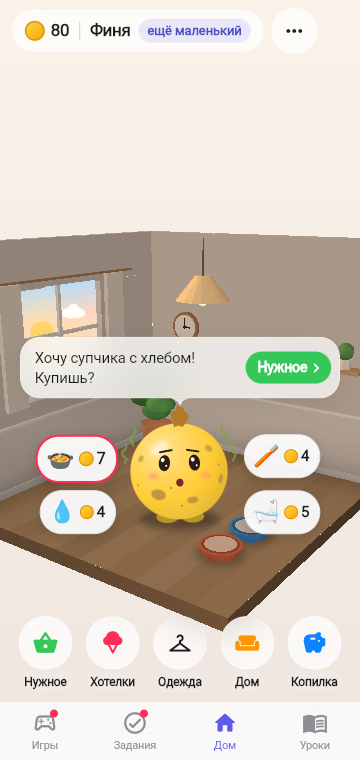
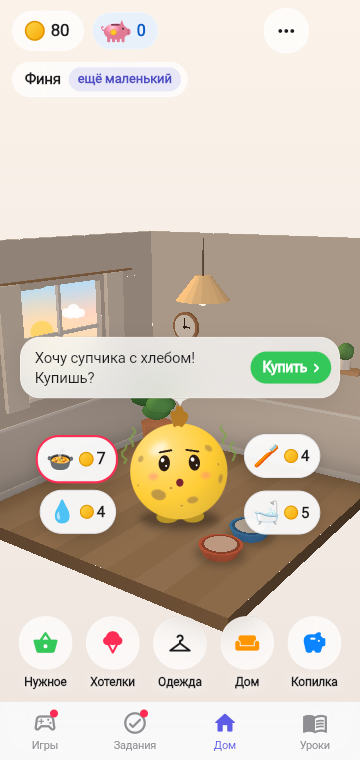
F-040: piggy bank on Home next to the wallet — saved amount, goal progress, tap to open Savings; name and stage on the second row

diff --git a/client/lib/ui/tabs/home_tab.dart b/client/lib/ui/tabs/home_tab.dart
@@ -22,6 +22,7 @@ import '../widgets/buy_sheet.dart';
 import '../widgets/duo.dart';
 import '../widgets/need_bubble.dart';
 import '../widgets/pet_speech.dart';
+import '../widgets/piggy.dart';
 
 /// Дом (Figma 02): комната на весь экран, герой, плавающие элементы (SA F-017 BR-03).
 class HomeTab extends StatefulWidget {
@@ -130,7 +131,13 @@ class _HomeTabState extends State<HomeTab> {
                 child: Column(
                   children: [
                     _topBar(name),
-                    if (game.inventory.rooms > 1) ...[const SizedBox(height: 8), _roomToggle()],
+                    const SizedBox(height: 8),
+                    Row(
+                      children: [
+                        Flexible(child: _nameRow(name)),
+                        if (game.inventory.rooms > 1) ...[const Spacer(), _roomToggle()],
+                      ],
+                    ),
                   ],
                 ),
               ),
@@ -162,35 +169,77 @@ class _HomeTabState extends State<HomeTab> {
   }
 
   Widget _topBar(String name) {
+    final goal = game.goal;
+    final saved = game.economy.savings.value;
     return Row(
       children: [
-        Flexible(
-          child: Glass(
-            radius: 24,
-            padding: const EdgeInsets.fromLTRB(12, 8, 12, 8),
-            child: Row(
-              mainAxisSize: MainAxisSize.min,
-              children: [
-                const CoinIcon(size: 20),
-                const SizedBox(width: 6),
-                Text(
-                  '${game.economy.available.value}',
-                  style: const TextStyle(fontSize: 17, fontWeight: FontWeight.w700, letterSpacing: -0.3),
-                ),
-                Container(width: 0.8, height: 18, margin: const EdgeInsets.symmetric(horizontal: 10), color: const Color(0x33000000)),
-                Flexible(
-                  child: Text(name, overflow: TextOverflow.ellipsis, style: const TextStyle(fontSize: 17, fontWeight: FontWeight.w600, letterSpacing: -0.4)),
-                ),
-                const SizedBox(width: 8),
-                Flexible(
-                  flex: 2,
-                  child: FittedBox(fit: BoxFit.scaleDown, child: DuoChip(text: game.stageTitle, color: FinniColors.primary)),
-                ),
-              ],
-            ),
+        // Кошелёк.
+        Glass(
+          radius: 24,
+          padding: const EdgeInsets.fromLTRB(12, 8, 14, 8),
+          child: Row(
+            mainAxisSize: MainAxisSize.min,
+            children: [
+              const CoinIcon(size: 20),
+              const SizedBox(width: 6),
+              Text('${game.economy.available.value}', style: const TextStyle(fontSize: 17, fontWeight: FontWeight.w700, letterSpacing: -0.3)),
+            ],
           ),
         ),
         const SizedBox(width: 8),
+        // Копилка на виду: сколько отложено и сколько до цели (SA F-040).
+        Flexible(
+          child: Semantics(
+            button: true,
+            label: goal == null ? 'Копилка: $saved' : 'Копилка: $saved из ${goal.cost}',
+            child: Pressable(
+              key: const Key('home.piggy'),
+              onTap: () => _open(SavingsScreen(game: game)),
+              child: Glass(
+                radius: 24,
+                tint: const Color(0xCCE3F0FF),
+                padding: const EdgeInsets.fromLTRB(8, 5, 12, 5),
+                child: Row(
+                  mainAxisSize: MainAxisSize.min,
+                  children: [
+                    const SizedBox(width: 30, height: 26, child: CustomPaint(painter: PiggyBankPainter())),
+                    const SizedBox(width: 6),
+                    Flexible(
+                      child: Column(
+                        mainAxisSize: MainAxisSize.min,
+                        crossAxisAlignment: CrossAxisAlignment.start,
+                        children: [
+                          FittedBox(
+                            fit: BoxFit.scaleDown,
+                            child: Text(
+                              goal == null ? '$saved' : '$saved / ${goal.cost}',
+                              key: const Key('home.piggy.amount'),
+                              style: const TextStyle(fontSize: 16, fontWeight: FontWeight.w700, letterSpacing: -0.3, color: Color(0xFF0A5BC4)),
+                            ),
+                          ),
+                          if (goal != null)
+                            SizedBox(
+                              width: 56,
+                              height: 4,
+                              child: ClipRRect(
+                                borderRadius: BorderRadius.circular(2),
+                                child: LinearProgressIndicator(
+                                  value: (saved / goal.cost).clamp(0.0, 1.0),
+                                  backgroundColor: const Color(0x330A84FF),
+                                  color: FinniColors.save,
+                                ),
+                              ),
+                            ),
+                        ],
+                      ),
+                    ),
+                  ],
+                ),
+              ),
+            ),
+          ),
+        ),
+        const Spacer(),
         Semantics(
           button: true,
           label: 'Меню',
@@ -203,6 +252,22 @@ class _HomeTabState extends State<HomeTab> {
       ],
     );
   }
+
+  /// Имя героя и стадия — второй строкой.
+  Widget _nameRow(String name) => Glass(
+    radius: 18,
+    padding: const EdgeInsets.fromLTRB(12, 5, 6, 5),
+    child: Row(
+      mainAxisSize: MainAxisSize.min,
+      children: [
+        Flexible(
+          child: Text(name, overflow: TextOverflow.ellipsis, style: const TextStyle(fontSize: 15, fontWeight: FontWeight.w600, letterSpacing: -0.3)),
+        ),
+        const SizedBox(width: 8),
+        FittedBox(fit: BoxFit.scaleDown, child: DuoChip(text: game.stageTitle, color: FinniColors.primary)),
+      ],
+    ),
+  );
 
   Widget _roomToggle() => Glass(
     radius: 18,

diff --git a/client/lib/ui/games/catcher_game.dart b/client/lib/ui/games/catcher_game.dart
@@ -6,6 +6,7 @@ import '../../game/minigames.dart';
 import '../theme.dart';
 import '../widgets/common.dart';
 import '../widgets/duo.dart';
+import '../widgets/piggy.dart';
 import 'games_hub.dart';
 
 /// «Копилка-ловец» (SA F-013).
@@ -225,71 +226,4 @@ String _caughtSummary(CatcherModel m) {
     names[f.emoji] = f.title;
   }
   return [for (final e in counts.entries) '${e.key} ${names[e.key]}${e.value > 1 ? ' ×${e.value}' : ''}'].join(', ');
-}
-
-/// Копилка-свинка с прорезью для монет (F-033) — вместо эмодзи.
-class PiggyBankPainter extends CustomPainter {
-  const PiggyBankPainter();
-
-  @override
-  void paint(Canvas canvas, Size size) {
-    final w = size.width, h = size.height;
-    const pink = Color(0xFFFF9EB5), dark = Color(0xFFE07A95);
-    final body = Rect.fromLTWH(w * 0.1, h * 0.22, w * 0.8, h * 0.62);
-    // ножки
-    for (final x in [0.26, 0.42, 0.58, 0.74]) {
-      canvas.drawRRect(RRect.fromRectAndRadius(Rect.fromLTWH(w * x - w * 0.05, h * 0.72, w * 0.1, h * 0.22), Radius.circular(w * 0.04)), Paint()..color = dark);
-    }
-    // хвостик
-    canvas.drawPath(
-      Path()
-        ..moveTo(w * 0.1, h * 0.5)
-        ..cubicTo(w * -0.02, h * 0.42, w * 0.02, h * 0.3, w * 0.08, h * 0.36),
-      Paint()
-        ..color = dark
-        ..style = PaintingStyle.stroke
-        ..strokeWidth = w * 0.035
-        ..strokeCap = StrokeCap.round,
-    );
-    // туловище
-    canvas.drawOval(
-      body,
-      Paint()..shader = const RadialGradient(center: Alignment(-0.3, -0.5), colors: [Color(0xFFFFD1DC), pink, dark]).createShader(body),
-    );
-    // ушко
-    canvas.drawPath(
-      Path()
-        ..moveTo(w * 0.62, h * 0.3)
-        ..lineTo(w * 0.7, h * 0.08)
-        ..lineTo(w * 0.78, h * 0.34)
-        ..close(),
-      Paint()..color = dark,
-    );
-    // пятачок
-    final snout = Rect.fromCenter(center: Offset(w * 0.9, h * 0.54), width: w * 0.18, height: h * 0.26);
-    canvas.drawOval(snout, Paint()..color = dark);
-    for (final dy in [-0.05, 0.05]) {
-      canvas.drawCircle(Offset(w * 0.91, h * (0.54 + dy)), w * 0.02, Paint()..color = const Color(0xFF9E4A62));
-    }
-    // глазик
-    canvas.drawCircle(Offset(w * 0.74, h * 0.42), w * 0.03, Paint()..color = const Color(0xFF3B2A30));
-    // прорезь для монет
-    canvas.drawRRect(
-      RRect.fromRectAndRadius(Rect.fromCenter(center: Offset(w * 0.48, h * 0.27), width: w * 0.28, height: h * 0.06), Radius.circular(h * 0.03)),
-      Paint()..color = const Color(0xFF7A3A50),
-    );
-    // монетка-значок
-    canvas.drawCircle(Offset(w * 0.42, h * 0.56), w * 0.09, Paint()..color = const Color(0xFFFFC928));
-    canvas.drawCircle(
-      Offset(w * 0.42, h * 0.56),
-      w * 0.09,
-      Paint()
-        ..color = const Color(0xFFE0A800)
-        ..style = PaintingStyle.stroke
-        ..strokeWidth = w * 0.015,
-    );
-  }
-
-  @override
-  bool shouldRepaint(PiggyBankPainter old) => false;
 }

diff --git a/client/lib/ui/widgets/piggy.dart b/client/lib/ui/widgets/piggy.dart
@@ -1,0 +1,68 @@
+import 'package:flutter/material.dart';
+
+/// Копилка-свинка с прорезью для монет (F-033) — вместо эмодзи.
+class PiggyBankPainter extends CustomPainter {
+  const PiggyBankPainter();
+
+  @override
+  void paint(Canvas canvas, Size size) {
+    final w = size.width, h = size.height;
+    const pink = Color(0xFFFF9EB5), dark = Color(0xFFE07A95);
+    final body = Rect.fromLTWH(w * 0.1, h * 0.22, w * 0.8, h * 0.62);
+    // ножки
+    for (final x in [0.26, 0.42, 0.58, 0.74]) {
+      canvas.drawRRect(RRect.fromRectAndRadius(Rect.fromLTWH(w * x - w * 0.05, h * 0.72, w * 0.1, h * 0.22), Radius.circular(w * 0.04)), Paint()..color = dark);
+    }
+    // хвостик
+    canvas.drawPath(
+      Path()
+        ..moveTo(w * 0.1, h * 0.5)
+        ..cubicTo(w * -0.02, h * 0.42, w * 0.02, h * 0.3, w * 0.08, h * 0.36),
+      Paint()
+        ..color = dark
+        ..style = PaintingStyle.stroke
+        ..strokeWidth = w * 0.035
+        ..strokeCap = StrokeCap.round,
+    );
+    // туловище
+    canvas.drawOval(
+      body,
+      Paint()..shader = const RadialGradient(center: Alignment(-0.3, -0.5), colors: [Color(0xFFFFD1DC), pink, dark]).createShader(body),
+    );
+    // ушко
+    canvas.drawPath(
+      Path()
+        ..moveTo(w * 0.62, h * 0.3)
+        ..lineTo(w * 0.7, h * 0.08)
+        ..lineTo(w * 0.78, h * 0.34)
+        ..close(),
+      Paint()..color = dark,
+    );
+    // пятачок
+    final snout = Rect.fromCenter(center: Offset(w * 0.9, h * 0.54), width: w * 0.18, height: h * 0.26);
+    canvas.drawOval(snout, Paint()..color = dark);
+    for (final dy in [-0.05, 0.05]) {
+      canvas.drawCircle(Offset(w * 0.91, h * (0.54 + dy)), w * 0.02, Paint()..color = const Color(0xFF9E4A62));
+    }
+    // глазик
+    canvas.drawCircle(Offset(w * 0.74, h * 0.42), w * 0.03, Paint()..color = const Color(0xFF3B2A30));
+    // прорезь для монет
+    canvas.drawRRect(
+      RRect.fromRectAndRadius(Rect.fromCenter(center: Offset(w * 0.48, h * 0.27), width: w * 0.28, height: h * 0.06), Radius.circular(h * 0.03)),
+      Paint()..color = const Color(0xFF7A3A50),
+    );
+    // монетка-значок
+    canvas.drawCircle(Offset(w * 0.42, h * 0.56), w * 0.09, Paint()..color = const Color(0xFFFFC928));
+    canvas.drawCircle(
+      Offset(w * 0.42, h * 0.56),
+      w * 0.09,
+      Paint()
+        ..color = const Color(0xFFE0A800)
+        ..style = PaintingStyle.stroke
+        ..strokeWidth = w * 0.015,
+    );
+  }
+
+  @override
+  bool shouldRepaint(PiggyBankPainter old) => false;
+}

diff --git a/client/test/ui/app_flow_test.dart b/client/test/ui/app_flow_test.dart
@@ -152,6 +152,13 @@ void main() {
     await t.pageBack();
     await settle(t, 30);
 
+    // F-040: копилка на виду рядом с кошельком — сколько отложено и путь в неё.
+    expect(find.text('5 / 50'), findsOneWidget);
+    await tapKey(t, 'home.piggy');
+    expect(find.textContaining('осталось 45'), findsWidgets);
+    await t.pageBack();
+    await settle(t, 30);
+
     // Одежда: очки надеты после покупки, тап — снять.
     await tapKey(t, 'home.clothes');
     expect(find.text('надето'), findsOneWidget);

diff --git a/docs/work/ui/F-040_PIGGY_ON_HOME_SA_SPEC.md b/docs/work/ui/F-040_PIGGY_ON_HOME_SA_SPEC.md
@@ -1,0 +1,33 @@
+# Копилка на виду: плашка на Доме рядом с кошельком — системная спецификация (SA)
+
+| Поле | Значение |
+|------|----------|
+| **ID** | F-040 |
+| **Назначение** | Сколько отложено — видно сразу на Доме рядом с кошельком; тап — в Копилку |
+| **Репозиторий** | `Pet_Finni_hackathon` |
+| **Источник** | Запрос Егора 2026-09-24: «выделить копилку, чтобы быстро в неё попасть и посмотреть, сколько отложено; на главном рядом с монетками писать, сколько в копилке, и возможность перейти» |
+| **Статус** | Согласовано Егором 2026-09-24 |
+| **Связанные артефакты** | F-014 (копилка), F-022 (разделы), F-033 (нарисованная копилка) |
+
+---
+
+## 3. Бизнес-требования
+
+| ID | Требование | Приоритет |
+|----|------------|-----------|
+| BR-01 | Верхняя строка Дома: плашка кошелька (монета + сумма) и рядом плашка копилки (нарисованная свинка + отложено) | Must |
+| BR-02 | Если выбрана цель — «30 / 50» и тонкая полоска прогресса к цели | Must |
+| BR-03 | Тап по плашке копилки — экран Копилки | Must |
+| BR-04 | Имя героя и стадия — второй строкой (чтобы всё поместилось на 360 dp) | Must |
+| BR-05 | Кошелёк и копилка визуально разные: копилка — голубая, как банка «Отложить» | Should |
+
+## 4. Описание
+
+| Слой | Путь |
+|------|------|
+| Дом | `ui/tabs/home_tab.dart` (`_topBar`, ключ `home.piggy`) |
+| Иконка | `ui/widgets/piggy.dart` (`PiggyBankPainter`, перенесён из ловца) |
+
+## 9. Тестирование
+
+`app_flow_test`: после перевода в копилку плашка показывает отложенное, тап открывает Копилку.

diff --git a/docs/business/05_SAVINGS_AND_GOALS.md b/docs/business/05_SAVINGS_AND_GOALS.md
@@ -3,8 +3,10 @@
 **Зачем.** Накопления лежат отдельно от кошелька. Ребёнок копит на вещь с понятной ценой, видит, сколько уже есть и сколько осталось, и учится не трогать копилку ради мелочей.
 
 <p>
-<img src="img/savings.png" width="260">
+<img src="img/home_piggy.png" width="220"> <img src="img/savings.png" width="220">
 </p>
+
+**Копилка на виду.** На Доме рядом с кошельком — плашка копилки с нарисованной свинкой: сколько отложено, а при выбранной цели — «30 / 50» и полоска прогресса. Тап — сразу в Копилку.
 
 ## Как это работает
 
@@ -29,4 +31,4 @@
 | Снятие | только после второго подтверждения, с показом, насколько отдалится цель |
 | Получение цели | списывается из копилки, награда сразу в игре |
 
-SA: [F-014](../work/ui/F-014_SAVINGS_GOALS_SA_SPEC.md), [F-003](../work/economy/F-003_REDEEM_GOAL_SA_SPEC.md).
+SA: [F-040](../work/ui/F-040_PIGGY_ON_HOME_SA_SPEC.md), [F-014](../work/ui/F-014_SAVINGS_GOALS_SA_SPEC.md), [F-003](../work/economy/F-003_REDEEM_GOAL_SA_SPEC.md).

diff --git a/docs/business/02_HOME_AND_WISHES.md b/docs/business/02_HOME_AND_WISHES.md
@@ -10,7 +10,7 @@
 
 - Финик живёт в **3D-комнате**: её можно покрутить пальцем, купленные вещи появляются в ней, вторая комната (игровая) открывается целью копилки.
 - Над героем — **облачко-сообщение**: сначала «печатает…», потом реплика и маленькая кнопка-капсула, которая ведёт туда, где просьба исполняется.
-- Внизу пять разделов: **Нужное · Хотелки · Одежда · Дом · Копилка**. Сверху — кошелёк, имя и стадия.
+- Внизу пять разделов: **Нужное · Хотелки · Одежда · Дом · Копилка**. Сверху — кошелёк и копилка (сколько отложено, прогресс к цели, тап — в Копилку), ниже — имя и стадия.
 - Тап по герою — он подпрыгивает и рассказывает, как себя чувствует.
 
 ## Потребности видны в комнате

diff --git a/docs/work/README.md b/docs/work/README.md
@@ -56,6 +56,7 @@
 | F-037 | Больше персонажей | [ui/F-037](ui/F-037_MORE_CHARACTERS_SA_SPEC.md) | `ui/mascot/`, `ui/screens/create_hero_screen.dart` | `game_controller_test`, `mascot_test` |
 | F-038 | Знакомство с питомцем | [ui/F-038](ui/F-038_PET_GREETING_SA_SPEC.md) | `ui/tabs/home_tab.dart`, `store/snapshot.dart` | `game_controller_test`, `app_flow_test` |
 | F-039 | Пузыри нужного над героем | [ui/F-039](ui/F-039_NEED_BUBBLES_SA_SPEC.md) | `ui/widgets/need_bubble.dart`, `ui/room/room_scene.dart`, `ui/tabs/home_tab.dart` | `app_flow_test` |
+| F-040 | Копилка на виду на Доме | [ui/F-040](ui/F-040_PIGGY_ON_HOME_SA_SPEC.md) | `ui/tabs/home_tab.dart`, `ui/widgets/piggy.dart` | `app_flow_test` |
 
 **Пайплайн:** brainstorming → design spec + SA → writing-plans (одна подсистема) → TDD → проверка.  
 См. `.cursor/rules/delivery-workflow.mdc` и `superpowers-workflow.mdc`.

diff --git a/client/README.md b/client/README.md
@@ -73,4 +73,4 @@ lib/
 ## Документация
 
 - Механики для бизнеса: [`docs/business`](../docs/business/README.md)
-- SA по каждой истории F-002 … F-039: [`docs/work/README.md`](../docs/work/README.md)
+- SA по каждой истории F-002 … F-040: [`docs/work/README.md`](../docs/work/README.md)
